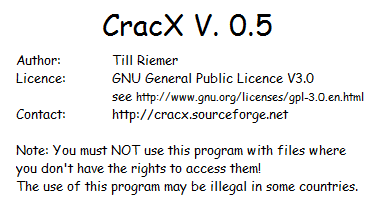
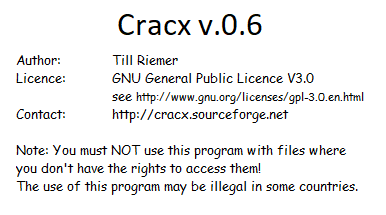
CracX V.0.6 - fixed broken extraction parameters with newer versions of 7-zip and WinRAR - the previous settings are now saved into a text file, and loaded on startup - fixed issues with locating the archive software, based on the way the path string was interpreted - fixed performance drops when ru

Changed region(s): [[0.2487, 0.0558, 0.715, 0.1674]]

diff --git a/src/View.java b/src/View.java
@@ -1,6 +1,14 @@
 import java.awt.BorderLayout;
 import java.awt.GridLayout;
-import java.awt.Point;
+import java.awt.event.WindowEvent;
+import java.awt.event.WindowListener;
+import java.io.IOException;
+import java.io.PrintWriter;
+import java.nio.charset.Charset;
+import java.nio.file.Files;
+import java.nio.file.Path;
+import java.nio.file.Paths;
+import java.util.List;
 
 import javax.swing.BorderFactory;
 import javax.swing.JFrame;
@@ -22,7 +30,7 @@ public class View extends JFrame {
     
     ContentView optionsView;  
     JPanel searchPanel;        
-    BruteforcerMenuBar menubar; 
+    CracXMenuBar menubar; 
 
     /**
      * creates the window
@@ -30,7 +38,7 @@ public class View extends JFrame {
     public View() {
         super(Messages.getString("Version")); //$NON-NLS-1$
         setLayout(new GridLayout(2, 1));
-        menubar = new BruteforcerMenuBar();
+        menubar = new CracXMenuBar();
 
         // VIEW PANEL ---------------------------
         searchPanel = new JPanel();
@@ -50,12 +58,93 @@ public class View extends JFrame {
 
         add(optionsView);
         add(searchPanel);
-        this.setLocation(new Point(10, 10));
+        this.setLocationByPlatform(true);
         this.setJMenuBar(menubar);
-        this.setDefaultCloseOperation(EXIT_ON_CLOSE);
+        
+        this.addWindowListener(new WindowListener()
+        {
+            @Override
+			public void windowClosing(WindowEvent arg0) {
+            	try {
+            		// save current data to a text file
+            	    PrintWriter writer = new PrintWriter("SavedData.log", "UTF-8");
+            	    writer.flush();
+            	    writer.println("Program:" + optionsView.program.getSelectedIndex());
+            	    writer.println("ProgramPath:" + optionsView.programpath.getText());
+            	    writer.println("FilePath:" + optionsView.filepath.getText());
+            	    writer.println("UseDict:" + optionsView.dictionaryEnabled.isSelected());
+            	    writer.println("DictionaryPath:" + optionsView.dictionarypath.getText());
+            	    writer.println("MinLength:" + optionsView.minPWLength.getText());
+            	    writer.println("MaxLength:" + optionsView.maxPWLength.getText());
+            	    writer.println("Charset:" + optionsView.charset.getText());
+            	    writer.close();
+            	} catch (IOException e) {
+            	   // just dont save the data
+            	}
+            	System.exit(0);
+			}
+            
+            @Override
+			public void windowOpened(WindowEvent arg0) {				
+			}
+
+			@Override
+			public void windowActivated(WindowEvent arg0) {				
+			}
+
+			@Override
+			public void windowClosed(WindowEvent arg0) {				
+			}
+
+			@Override
+			public void windowDeactivated(WindowEvent arg0) {				
+			}
+
+			@Override
+			public void windowDeiconified(WindowEvent arg0) {				
+			}
+
+			@Override
+			public void windowIconified(WindowEvent arg0) {				
+			}			
+        });
+        
         this.setResizable(false);
         this.pack();
         this.setVisible(true);
+        
+        // parse in saved data
+        Path dataFile = Paths.get("SavedData.log");
+	 	Charset dataFileCharset = Charset.forName("UTF-8");
+		try {
+			List<String> savedData = Files.readAllLines(dataFile, dataFileCharset);
+			
+			Integer programIndex = new Integer(savedData.get(0).substring(savedData.get(0).indexOf(':') + 1));
+			optionsView.program.setSelectedIndex(programIndex);
+			
+			String programPath = savedData.get(1).substring(savedData.get(1).indexOf(':') + 1);
+			optionsView.programpath.setText(programPath);
+			
+			String filePath = savedData.get(2).substring(savedData.get(2).indexOf(':') + 1);
+			optionsView.filepath.setText(filePath);
+			
+			Boolean useDict = new Boolean(savedData.get(3).substring(savedData.get(3).indexOf(':') + 1));
+			optionsView.dictionaryEnabled.setSelected(useDict);
+			
+			String dictPath = savedData.get(4).substring(savedData.get(4).indexOf(':') + 1);
+			optionsView.dictionarypath.setText(dictPath);
+			
+			String minLength = savedData.get(5).substring(savedData.get(5).indexOf(':') + 1);
+			optionsView.minPWLength.setText(minLength);
+			
+			String maxLength = savedData.get(6).substring(savedData.get(6).indexOf(':') + 1);
+			optionsView.maxPWLength.setText(maxLength);
+			
+			String charset = savedData.get(7).substring(savedData.get(7).indexOf(':') + 1);
+			optionsView.charset.setText(charset);
+		} catch (Exception e) {
+			return; // just use default settings
+		}
     }
 
 }

diff --git a/src/ProgramHandler.java b/src/ProgramHandler.java
@@ -1,3 +1,4 @@
+import java.io.File;
 import java.io.IOException;
 
 /**
@@ -46,23 +47,27 @@ public class ProgramHandler {
      * and closes the program again
      * 
      * @param combination current try
-     * @return 7,2:failure 0:success 1:warnings, check documentation of archive program (TODO)
+     * @return 7,2:failure 0:success 1:warnings
      */
     int tryPW(String combination) {
         try {
             Process process;
+            
+            //String outputPath = filepath.substring(0, filepath.lastIndexOf(File.separator));
+            
             if (program == "7z") { //$NON-NLS-1$
                 process = new ProcessBuilder(
-                        programpath + "7z", "x", filepath, "-aoap" + combination).start(); //$NON-NLS-1$ //$NON-NLS-2$ //$NON-NLS-3$
-                return (process.waitFor());
+                        programpath + File.separator + "7z", "x", filepath, "-aoa", "-p" + combination/*, "-o" + outputPath*/).start(); //$NON-NLS-1$ //$NON-NLS-2$ //$NON-NLS-3$ // old: "-aoap" + combination
+                int res = process.waitFor();
+                return res;
             } 
             else if (program == "WinRAR") { //$NON-NLS-1$
                 process = new ProcessBuilder(
-                        programpath + "WinRAR", "x", "-p" + combination, "-inul", "-ibck", "-y", filepath).start(); //$NON-NLS-1$ //$NON-NLS-2$ //$NON-NLS-3$ //$NON-NLS-4$ //$NON-NLS-5$ //$NON-NLS-6$
+                        programpath + File.separator + "UnRAR", "x", "-p" + combination, "-inul", "-ibck", "-y", filepath).start(); //$NON-NLS-1$ //$NON-NLS-2$ //$NON-NLS-3$ //$NON-NLS-4$ //$NON-NLS-5$ //$NON-NLS-6$
                 return (process.waitFor());
             }
 
-            return 7; // No archive program choosed
+            return 7; // No archive program chosen
         } catch (IOException e) {
             e.printStackTrace();
             return 2; // Command Line Error

diff --git a/src/CracXMenuBar.java b/src/CracXMenuBar.java
@@ -7,8 +7,9 @@ import javax.swing.JMenuBar;
 import javax.swing.JMenuItem;
 
 @SuppressWarnings("serial")
-public class BruteforcerMenuBar extends JMenuBar {
+public class CracXMenuBar extends JMenuBar {
     JMenu program;
+    
     JMenuItem info;
     JMenuItem close;
 
@@ -16,7 +17,7 @@ public class BruteforcerMenuBar extends JMenuBar {
     JMenuItem german;
     JMenuItem english;
 
-    public BruteforcerMenuBar() {
+    public CracXMenuBar() {
         program = new JMenu(Messages.getString("BruteforcerMenuBar.0")); //$NON-NLS-1$
 
         // --------------- Info -------------------------
@@ -30,7 +31,7 @@ public class BruteforcerMenuBar extends JMenuBar {
         program.add(info);
         // ----------------------------------------------
         program.addSeparator();
-        // ------------- Beenden ------------------------
+        // ------------- Quit ------------------------
         close = new JMenuItem(Messages.getString("BruteforcerMenuBar.2")); //$NON-NLS-1$
         // close.setIcon(new ImageIcon("icons/exit.jpg"));
         close.addActionListener(new ActionListener() {
@@ -41,7 +42,7 @@ public class BruteforcerMenuBar extends JMenuBar {
         });
         program.add(close);
         // ----------------------------------------------
-        // ---------- SPRACHEN --------------------------
+        // ---------- Languages --------------------------
         language = new JMenu(Messages.getString("BruteforcerMenuBar.3")); //$NON-NLS-1$
         english = new JMenuItem("english"); //$NON-NLS-1$
         english.setIcon(new ImageIcon("icons/english.png")); //$NON-NLS-1$

diff --git a/src/BruteForce.java b/src/BruteForce.java
@@ -36,19 +36,20 @@ public class BruteForce extends Observable implements Runnable{
     }
 
     public void run() {
+    	combination = "";
         running = true;
         
         for (int i = 0; i < minPWLength - 1; i++) { // initialize with space chars
             combination += " "; //$NON-NLS-1$
         }
         for (int i = minPWLength - 1; i < maxPWLength; i++) { // for every string length
-            if (tryCombination(i) == 1) {
-                logView.setText(logView.getText()
-                        + Messages.getString("BruteForce.2") //$NON-NLS-1$
+            if (tryCombination(i) == 1) 
+            {
+                logView.setText(Messages.getString("BruteForce.2") //$NON-NLS-1$
                         + combination);
-                logView.setCaretPosition(logView.getText().length());
                 setChanged();
                 notifyObservers("success");
+                return;
             }
         }
         setChanged();
@@ -92,9 +93,8 @@ public class BruteForce extends Observable implements Runnable{
                     combination = combination + temp.substring(index + 1);
                 }
 
-                // plot combination and scroll view down
-                logView.setText(logView.getText() + "\n" + combination); //$NON-NLS-1$
-                logView.setCaretPosition(logView.getText().length());
+                // plot combination
+                logView.setText(combination); //$NON-NLS-1$
 
                 if (index > 0) { // increment from lowest indexes first
                     if (tryCombination(index - 1) == 1)

diff --git a/src/InfoView.java b/src/InfoView.java
@@ -18,6 +18,9 @@ public class InfoView extends JFrame {
     public InfoView() {
         super(Messages.getString("InfoView.0")); //$NON-NLS-1$
         add(new JLabel(new ImageIcon("info.png")));
+        
+        this.setAlwaysOnTop(true);
+        this.setLocationByPlatform(true);
         this.setDefaultCloseOperation(DISPOSE_ON_CLOSE);
         this.setMinimumSize(new Dimension(400, 250));
         this.setResizable(false);
